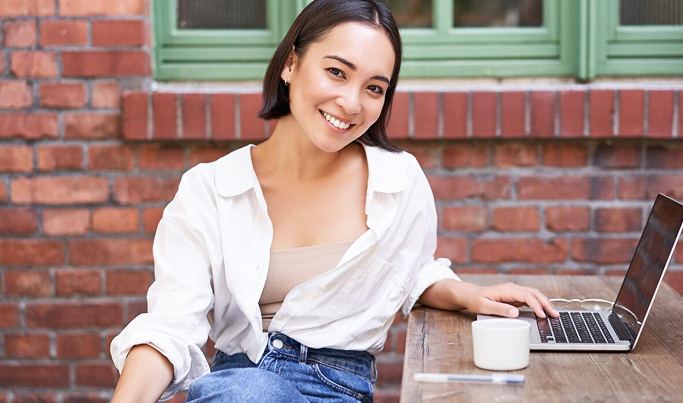
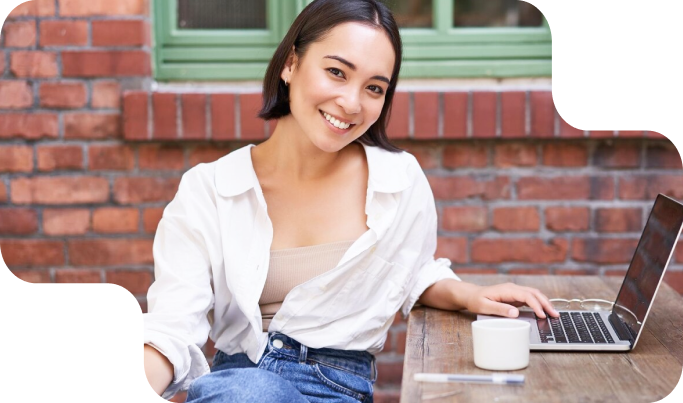
second commit

diff --git a/css/main.css b/css/main.css
@@ -6,6 +6,7 @@ html {
     margin: 0;
     padding: 0;
     box-sizing: border-box;
+    border: px solid black;
 }
 
 /* BODY сайта */
@@ -944,4 +945,88 @@ header {
     line-height: 1.3vw;
     letter-spacing: 0;
     color: rgba(45, 45, 45, 1);
+}
+
+.seventh_section {
+    padding-top: 120px;
+    padding-bottom: 50px;
+}
+
+.promote_container {
+    max-width: 1470px;
+    margin: 0 auto;
+    padding: 0 25px;
+}
+
+.promote_box {
+    display: flex;
+    flex-wrap: wrap;
+    align-items: center;
+    padding: 3vw;
+    background: rgba(45, 45, 45, 1);
+    border-radius: 40px;
+}
+
+.promote_col_7 {
+    width: 55%;
+    padding: 0 15px;
+}
+
+.promote_col_5 {
+    width: 45%;
+    padding: 0 15px;
+}
+
+.promote_info {
+    display: flex;
+    flex-direction: column;
+    align-items: flex-start;
+    padding: 2vw;
+    gap: 3vw;
+}
+
+.promote_title {
+    font-family: 'Montserrat', sans-serif;
+    font-weight: 700;
+    font-size: 2.5vw;
+    line-height: 2.5vw;
+    letter-spacing: 0;
+    color: #fff;
+    max-width: 540px;
+}
+
+.promote-reg_button {
+    text-transform: uppercase;
+    width: 95%;
+    font-family: 'Inter', sans-serif;
+    font-weight: 400;
+    font-size: 1.2vw;
+    line-height: 1.2vw;
+    padding: 1.3vw 1vw;
+    background: rgba(255, 102, 0, 1);
+    border: none;
+    color: #fff;
+    border-radius: 20px;
+    transition: 0.3s;
+    cursor: pointer;
+}
+.promote-reg_button:hover {
+    transition: 0.3s;
+    background: rgba(255, 152, 50, 1);
+}
+
+.promote_image {
+    position: relative;
+    display: flex;
+}
+
+.promote_image > img:first-child {
+    width: 35vw;
+}
+.promote_image > img:nth-child(2) {
+    width: 4.3vw;
+    position: absolute;
+    bottom: 3%;
+    left: 4%;
+    transform: rotate(-25deg);
 }

diff --git a/css/media.css b/css/media.css
@@ -61,7 +61,7 @@
         display: flex;
     }
     main {
-        padding-top: 100px;
+        padding-top: 10%;
     }
     .our-advantages_b {
         gap: 10px;
@@ -69,9 +69,15 @@
     .clients-review-v_block {
         border-radius: 10px;
     }
+    .promote_box {
+        border-radius: 10px;
+    }
 }
 
 @media screen and (max-width: 768px) {
+    .l-generation_box {
+        padding: 5px 10px;
+    }
     .star-g-1_svg {
         position: absolute;
         top: 70%;
@@ -231,6 +237,32 @@
     .technology_inner > img {
         width: 5vw;
     }
+    .promote_title {
+        font-size: 3.5vw;
+        line-height: 3.5vw;
+    }
+    .promote-reg_button {
+        font-size: 2vw;
+        line-height: 3vw;
+        border-radius: 5px;
+    }
+    .promote-reg_button {
+        font-size: 2vw;
+        line-height: 3vw;
+        border-radius: 5px;
+    }
+    .promote_container {
+        padding: 0;
+    }
+    .promote_box {
+        border-radius: 0;
+    }
+    .promote_col_7 {
+        padding: 0;
+    }
+    .promote_col_5 {
+        padding: 0 10px;
+    }
 }
 
 @media screen and (max-width: 576px) {
@@ -385,6 +417,25 @@
     }
     .technology_inner > img {
         width: 6vw;
+    }
+    .promote_col_7 {
+        width: 100%;
+    }
+    .promote_col_5 {
+        width: 100%;
+    }
+    .promote_image > img:first-child {
+        width: 100%;
+    }
+    .promote_image > img:nth-child(2) {
+        width: 10vw;
+    }
+    .promote_box {
+        gap: 3vw;
+    }
+    .promote_title {
+        font-size: 4.5vw;
+        line-height: 4.5vw;
     }
 }
 

diff --git a/index.html b/index.html
@@ -420,6 +420,24 @@
             </div>
         </div>
     </section>
+    <div class="seventh_section">
+        <div class="promote_container">
+            <div class="promote_box">
+                <div class="promote_col_7">
+                    <div class="promote_info">
+                        <h3 class="promote_title">Зарегистрируйтесь и добавьте свой проект в систему - начните получать Лиды сегодня!</h3>
+                        <button class="promote-reg_button">зарегистрироватся</button>
+                    </div>
+                </div>
+                <div class="promote_col_5">
+                    <div class="promote_image">
+                        <img src="./assets/1/woman_2.png" alt="woman">
+                        <img src="./assets/2/star_gradient.svg" alt="gradient star">
+                    </div>
+                </div>
+            </div>
+        </div>
+    </div>
 </main>
 <script src='./js/main.js'></script>
 </body>
